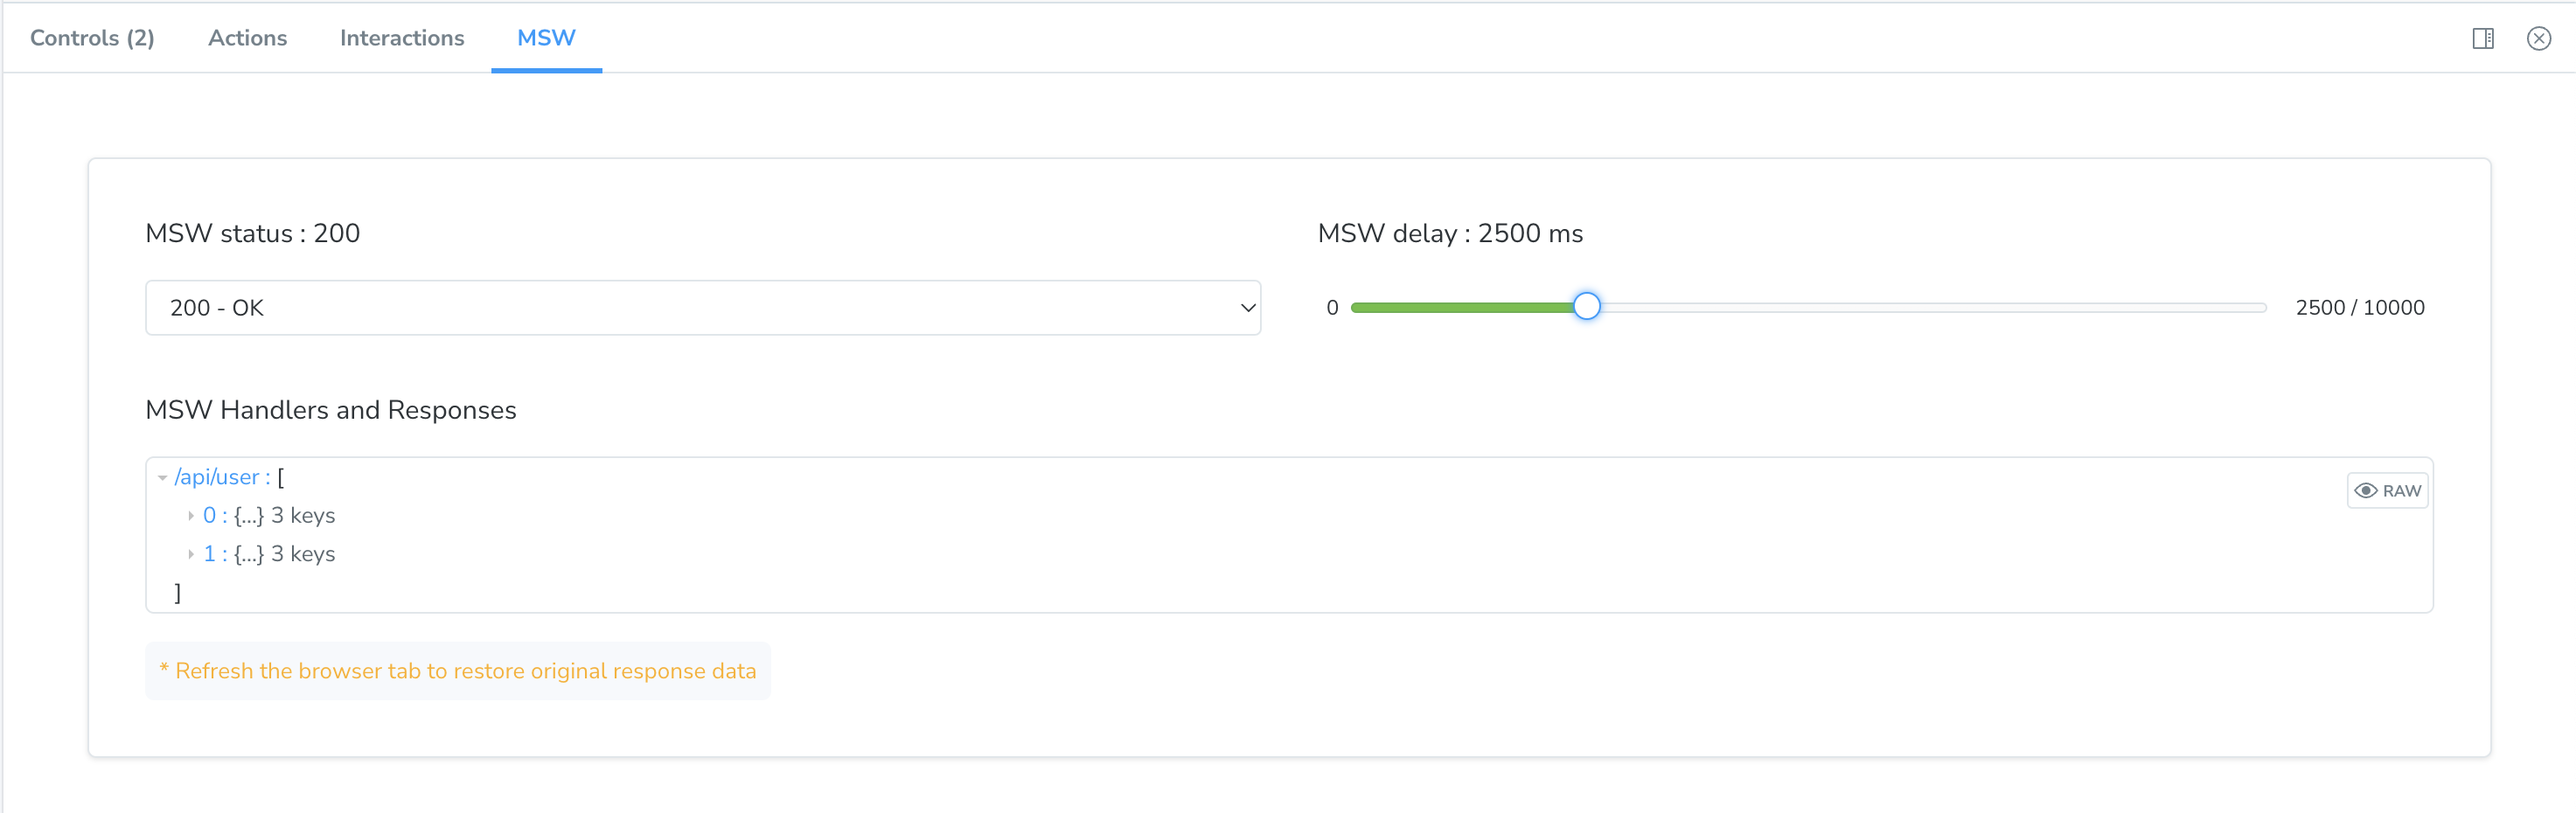
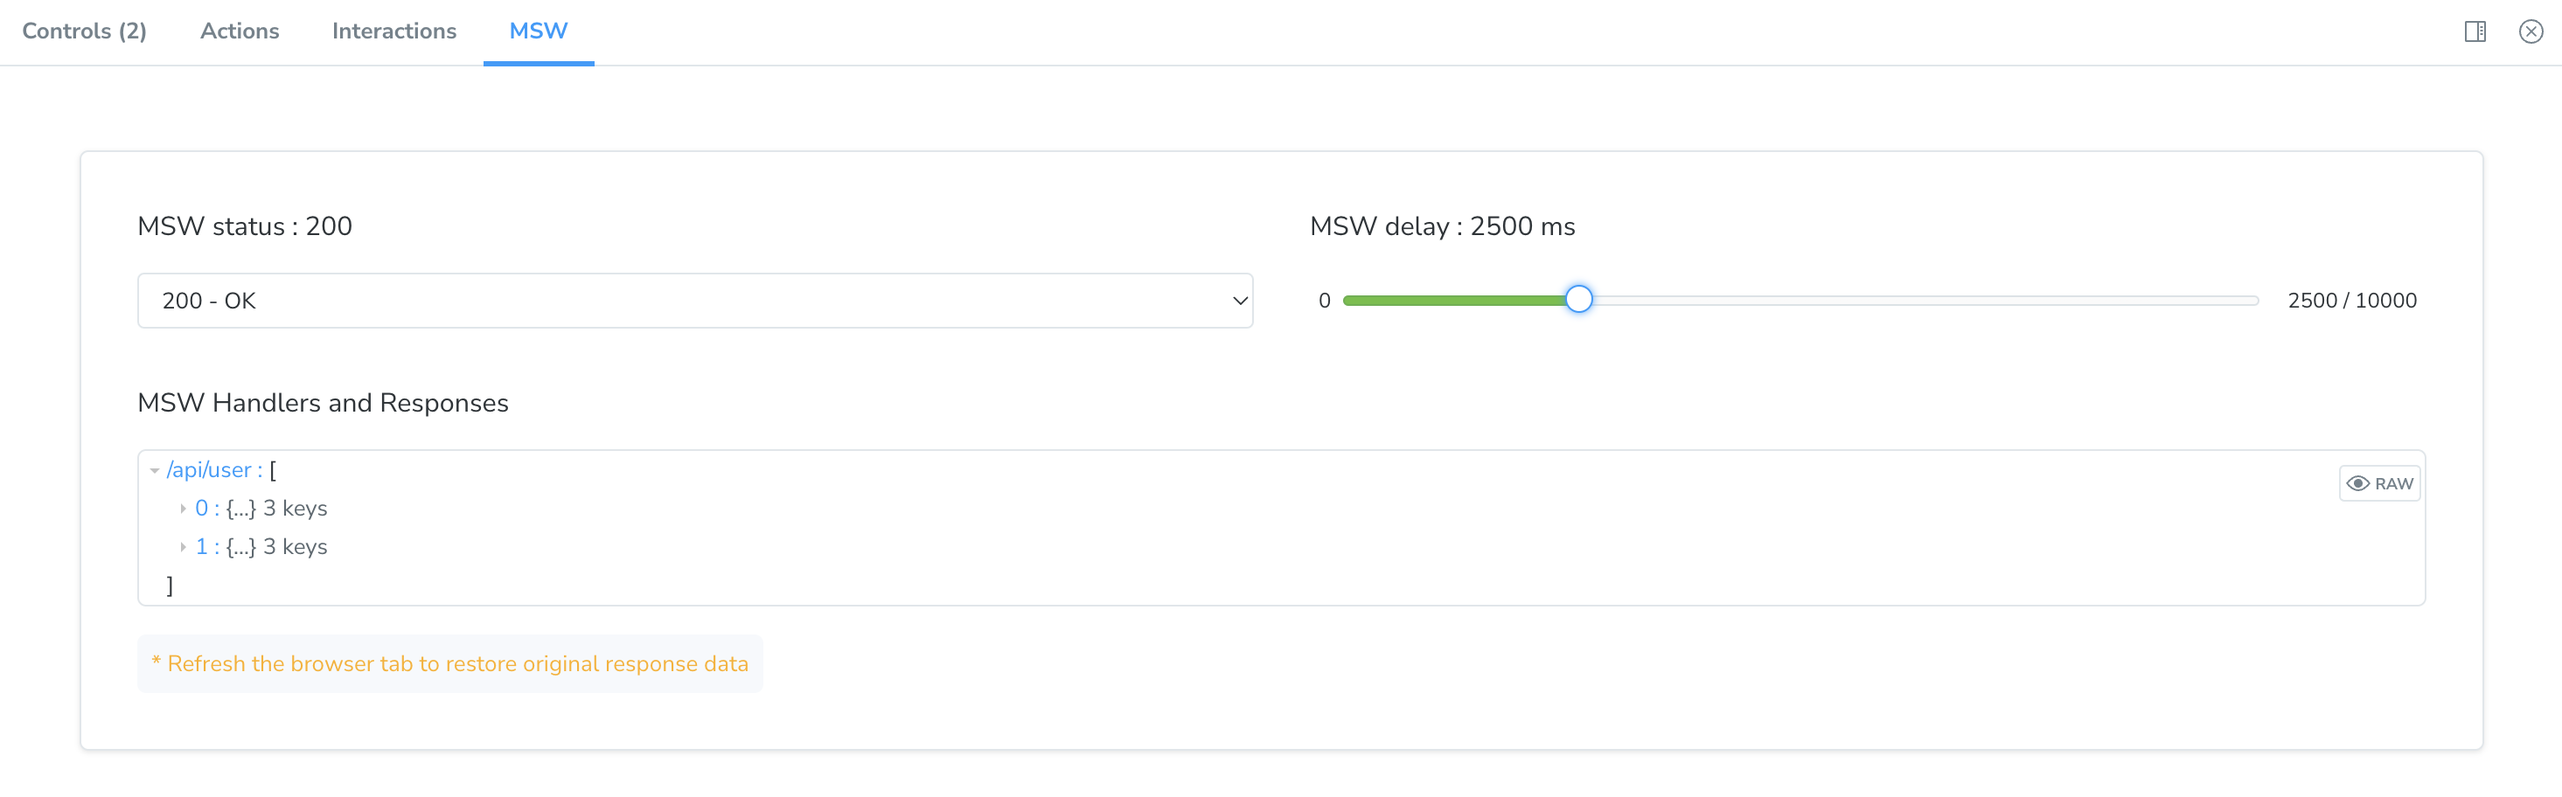
:hammer: -- handle 404 and status updates

diff --git a/src/Panel.tsx b/src/Panel.tsx
@@ -24,12 +24,12 @@ const ObjectContent = styled.div`
 `;
 
 const Notice = styled.div`
-  background-color: ${({ theme }) => theme.background.app};
-  color: ${({ theme }) => theme.color.gold};
+  color: ${({ theme }) => theme.color.secondary};
   margin-block-start: 1rem;
   padding: 0.5rem;
   border-radius: 5px;
   inline-size: fit-content;
+  font-weight: 400;
 `;
 
 const Container = styled.div`
@@ -70,11 +70,11 @@ const Label = styled.div`
 `;
 
 export const Panel: React.FC<PanelProps> = (props) => {
-  const [data, setState] = useAddonState(ADDON_ID, {} as any);
+  const [addonState, setAddonState] = useAddonState(ADDON_ID, {} as any);
 
   const emit = useChannel({
-    [EVENTS.SEND]: (newData) => {
-      setState({ ...data, ...newData });
+    [EVENTS.SEND]: (newAddonState) => {
+      setAddonState({ ...addonState, ...newAddonState });
     },
   });
 
@@ -91,18 +91,18 @@ export const Panel: React.FC<PanelProps> = (props) => {
   };
 
   const getRender = () => {
-    if (data.delay !== undefined)
+    if (addonState.delay !== undefined && addonState.status !== undefined)
       return (
         <ScrollArea>
           <Container>
             <StatusAndDelayContainer>
               <div>
                 <Label>
-                  <h3>MSW status : {data.status}</h3>
+                  <h3>MSW status : {addonState.status}</h3>
                 </Label>
                 <Select
                   onChange={(event) => onChange("status", event.target.value)}
-                  value={data.status}
+                  value={addonState.status}
                   name="status"
                 >
                   {statusCodes.map((code) => (
@@ -114,11 +114,11 @@ export const Panel: React.FC<PanelProps> = (props) => {
               </div>
               <div>
                 <Label>
-                  <h3>MSW delay : {data.delay} ms</h3>
+                  <h3>MSW delay : {addonState.delay} ms</h3>
                 </Label>
                 <RangeControl
                   name="delay"
-                  value={data.delay}
+                  value={addonState.delay}
                   onChange={(value) => onChange("delay", value)}
                   min={0}
                   max={10000}
@@ -128,16 +128,16 @@ export const Panel: React.FC<PanelProps> = (props) => {
             </StatusAndDelayContainer>
             <ObjectContent>
               <Label>
-                <h3>MSW Handlers and Responses</h3>
+                <h3>MSW handlers and responses</h3>
               </Label>
               <HandlersAndResponses>
-                {data.responses &&
-                  Object.keys(data.responses).length > 0 &&
-                  Object.keys(data.responses).map((key) => (
+                {addonState.responses &&
+                  Object.keys(addonState.responses).length > 0 &&
+                  Object.keys(addonState.responses).map((key) => (
                     <ObjectControl
                       key={key}
                       name={key}
-                      value={data.responses[key]}
+                      value={addonState.responses[key].data}
                       onChange={(value) =>
                         onChangeResponse("responses", key, value)
                       }
@@ -146,7 +146,7 @@ export const Panel: React.FC<PanelProps> = (props) => {
                   ))}
               </HandlersAndResponses>
               <Notice>
-                * Refresh the browser tab to restore original response data
+                * refresh the browser tab to restore original response data.
               </Notice>
             </ObjectContent>
           </Container>

diff --git a/src/withRoundTrip.ts b/src/withRoundTrip.ts
@@ -4,11 +4,7 @@ import type {
   PartialStoryFn as StoryFunction,
   Parameters,
 } from "@storybook/types";
-import {
-  STORY_CHANGED,
-  FORCE_REMOUNT,
-  FORCE_RE_RENDER,
-} from "@storybook/core-events";
+import { STORY_CHANGED, FORCE_REMOUNT } from "@storybook/core-events";
 import { EVENTS, PARAM_KEY } from "./constants";
 import { RequestHandler, context, createResponseComposition, rest } from "msw";
 
@@ -43,15 +39,17 @@ export const transformedResponse = (s: number, d: number, r: any) => {
 };
 
 const updateHandlers = (handlers: RequestHandler[]) => {
+  if (!handlers) return;
   const worker = (window as any).msw;
   handlers.forEach((handler: any) => {
     const currentResponse = responses[handler.info.path];
+    status = currentResponse.status;
     worker.use(
       rest.get(handler.info.path, (req, res, ctx) => {
         return res(
-          ctx.status(status),
+          ctx.status(currentResponse.status),
           ctx.delay(delay),
-          ctx.json(currentResponse)
+          ctx.json(currentResponse.data)
         );
       })
     );
@@ -65,8 +63,11 @@ export const withRoundTrip = (
   let parameters,
     msw: { handlers: any; originalResponses: Record<string, any> },
     handlers: any;
+
   parameters = ctx.parameters;
   if (parameters) msw = getParameter(parameters, PARAM_KEY, []);
+  if (!msw) return storyFn();
+
   const emit = useChannel({
     [EVENTS.UPDATE]: ({ key, value }) => {
       if (key === "delay") {
@@ -79,6 +80,9 @@ export const withRoundTrip = (
       }
       if (key === "status") {
         status = value;
+        Object.keys(responses).forEach((key: any) => {
+          responses[key].status = value;
+        });
         updateHandlers(handlers);
         channel.emit(FORCE_REMOUNT, { storyId: ctx.id });
       }
@@ -91,14 +95,14 @@ export const withRoundTrip = (
     },
     [EVENTS.UPDATE_RESPONSES]: ({ key, objectKey, objectValue }) => {
       if (key === "responses") {
-        responses[objectKey] = objectValue;
+        responses[objectKey].data = objectValue;
         const responseObject: ResponseObject = {
           delay: delay,
           status: status,
           responses: responses,
         };
-        emit(EVENTS.SEND, responseObject);
         updateHandlers(handlers);
+        emit(EVENTS.SEND, responseObject);
         channel.emit(FORCE_REMOUNT, { storyId: ctx.id });
       }
     },
@@ -107,18 +111,20 @@ export const withRoundTrip = (
   if (INITIAL_MOUNT_STATE) {
     handlers = msw.handlers;
     responses = msw.originalResponses;
-    emit(EVENTS.SEND, { status: 200, delay: 0, responses });
+    updateHandlers(handlers);
+    emit(EVENTS.SEND, { status, delay, responses });
     channel.on(STORY_CHANGED, () => {
-      console.log("STORY_CHANGED", STORY_CHANGED);
       delete msw.originalResponses;
+
       const worker = (window as any).msw;
       worker.stop();
-      delete (window as any).msw;
+
       STORY_CHANGED_STATE = true;
       location.reload();
     });
     INITIAL_MOUNT_STATE = false;
   }
+
   if (STORY_CHANGED_STATE) {
     STORY_CHANGED_STATE = false;
     channel.emit(FORCE_REMOUNT, { storyId: ctx.id });

diff --git a/src/mswLoader.ts b/src/mswLoader.ts
@@ -35,6 +35,7 @@ export const mswLoader = async (context: Context) => {
   const {
     parameters: { msw },
   } = context;
+  if (!msw) return;
   if (msw.originalResponses || (window as any).msw) return;
   const worker = typeof global.process === "undefined" && setupWorker();
   if ("handlers" in msw && msw.handlers) {
@@ -51,7 +52,6 @@ export const mswLoader = async (context: Context) => {
     worker.start(opt || {});
 
     (window as any).msw = worker;
-
     const responses = await getOriginalResponses(handlers);
     context.parameters.msw = {
       ...msw,
@@ -67,8 +67,13 @@ const getOriginalResponses = async (handlers: any[]) => {
   for (const handler of handlers) {
     const originalRequest = new Request(handler.info.path);
     const originalResponse = await fetch(originalRequest);
-    const originalData = await originalResponse.json();
-    originalResponses[handler.info.path] = originalData;
+    let originalData;
+    if (!originalResponse.ok) originalData = null;
+    else originalData = await originalResponse.json();
+    originalResponses[handler.info.path] = {
+      data: originalData,
+      status: originalResponse.status,
+    };
   }
 
   return originalResponses;

diff --git a/src/stories/MockApi.stories.ts b/src/stories/MockApi.stories.ts
@@ -1,7 +1,6 @@
 import type { Meta, StoryObj } from "@storybook/react";
 import { rest } from "msw";
 import { MockApi } from "./MockApi";
-import { Panel } from "src/Panel";
 
 const results = [
   {
@@ -51,7 +50,7 @@ export const Error: Story = {
     msw: {
       handlers: [
         rest.get("/api/error", (req, res, ctx) => {
-          return res(ctx.json([]), ctx.status(404));
+          return res(ctx.status(404));
         }),
       ],
     },

diff --git a/src/stories/MockApi.tsx b/src/stories/MockApi.tsx
@@ -25,6 +25,7 @@ export const MockApi = ({ heading, endpoint }: MockApiProps) => {
 
     if (response.status === 200) {
       const data = await response.json();
+      if (!Array.isArray(data)) throw new Error("Data is not an array");
       setResults(data);
       setLoading(false);
     } else {

diff --git a/src/backupWithRoundTrip.ts b/src/backupWithRoundTrip.ts
@@ -60,7 +60,6 @@ export const withRoundTrip = (
     handlers = msw.handlers;
     responses = msw.originalResponses;
   }
-  console.log("with round trip", msw);
 
   const emit = useChannel({
     [EVENTS.UPDATE]: ({ key, value }) => {

diff --git a/.storybook/manager.ts b/.storybook/manager.ts
@@ -2,5 +2,5 @@ import { addons } from "@storybook/manager-api";
 import { themes } from "@storybook/theming";
 
 addons.setConfig({
-  theme: themes.light,
+  theme: themes.dark,
 });
